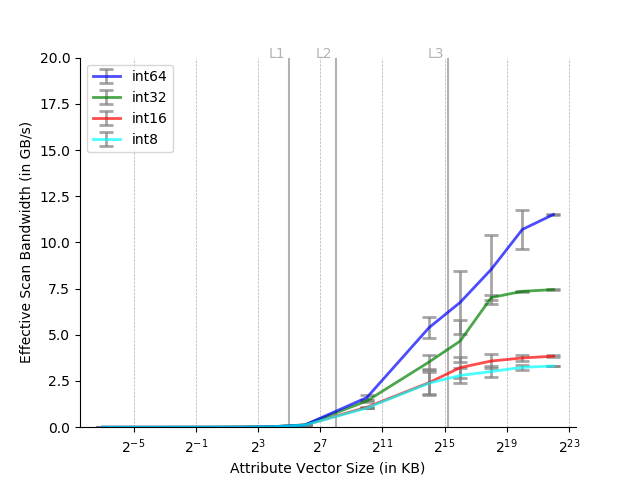
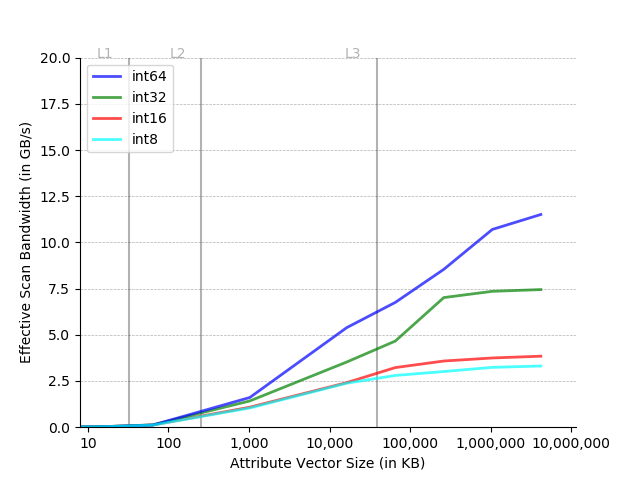
no-variance flag, base 10 x-axis, no power x-axis labels, start at 8KB

diff --git a/generate_figures.py b/generate_figures.py
@@ -2,6 +2,7 @@ import os
 import sys
 
 import matplotlib.pyplot as plt
+from matplotlib import ticker
 import numpy as np
 import pandas as pd
 
@@ -12,7 +13,7 @@ dtypekey = 'Data type'
 colors = ['red', 'green', 'blue', 'cyan']
 
 
-def process_file(filename):
+def process_file(filename, show_variance):
     data = pd.read_csv(filename)
     csizes = np.unique(data[colszkey])
     dtype_dfs = []
@@ -29,16 +30,30 @@ def process_file(filename):
         bandwidth_means = [np.mean(bandwidth[df[colszkey] == csz]) for csz in csizes]
         bandwidth_stds = [np.std(bandwidth[df[colszkey] == csz]) for csz in csizes]
 
-        plt.errorbar(x=csizes,
-                     y=bandwidth_means,
-                     yerr=bandwidth_stds,
-                     label=df[dtypekey].iloc[0],
-                     color=colors[idx], alpha=0.7,
-                     ecolor='gray', lw=2, capsize=5, capthick=2)
+        if show_variance:
+            plt.errorbar(x=csizes,
+                         y=bandwidth_means,
+                         yerr=bandwidth_stds,
+                         label=df[dtypekey].iloc[0],
+                         color=colors[idx], alpha=0.7,
+                         ecolor='gray', lw=2, capsize=5, capthick=2)
+        else:
+            plt.errorbar(x=csizes,
+                         y=bandwidth_means,
+                         label=df[dtypekey].iloc[0],
+                         color=colors[idx], alpha=0.7,
+                         ecolor='gray', lw=2, capsize=5, capthick=2)
 
     plt.legend()
     plt.xlabel('Attribute Vector Size (in KB)')
-    plt.xscale('log', basex=2)
+    plt.xscale('log', basex=10)
+
+    def comma_seperators(x, pos):
+        return "{:,}".format(int(x))
+
+    plt.gca().xaxis.set_major_formatter(ticker.FuncFormatter(comma_seperators))
+    plt.minorticks_off()
+    plt.xlim(xmin=8)
     plt.gca().yaxis.grid(True, lw=.5, ls='--')
     plt.ylabel('Effective Scan Bandwidth (in GB/s)')
 
@@ -79,12 +94,13 @@ def process_file(filename):
 if __name__ == '__main__':
     path = sys.argv[1] if len(sys.argv) > 1 else 'benchmark.csv'
     system_type = sys.argv[2] if len(sys.argv) > 2 else 'power'
+    show_variance = sys.argv[3] != 'no-variance' if len(sys.argv) > 3 else True
     try:
         if os.path.isdir(path):
             for filename in os.listdir(path):
                 if filename[-4:] == '.csv':
                     print('Plotting ' + filename + '...')
-                    process_file(os.path.join(path, filename))
+                    process_file(os.path.join(path, filename), show_variance)
         else:
             process_file(path)
         print('Done')
